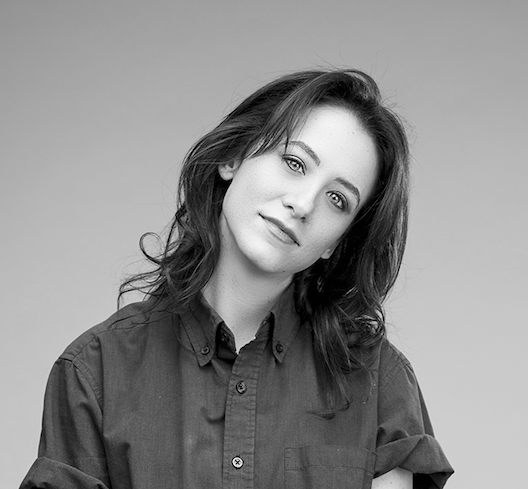
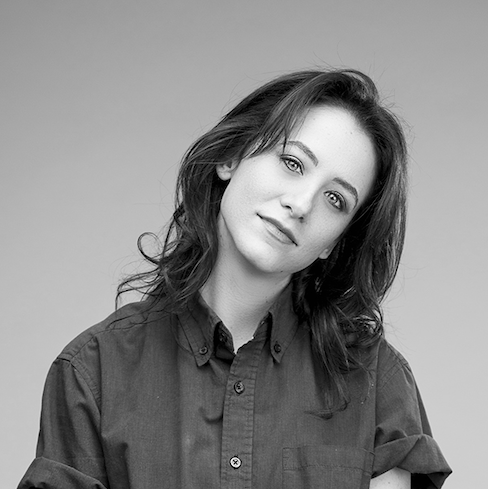
add fade to lazy load

diff --git a/client/src/components/About/index.js b/client/src/components/About/index.js
@@ -1,9 +1,14 @@
 import { LazyLoadImage } from "react-lazy-load-image-component";
-import { Skeleton } from "@mui/material";
+import { animated, useSpring } from "react-spring";
 import "./About.css";
 
 const About = ({ advocateMode }) => {
-  /*      */
+  const fadeIn = useSpring({
+    from: { opacity: 0 },
+    to: { opacity: 1 },
+    config: { duration: 750 },
+  });
+
   return (
     <div
       className="page"
@@ -14,18 +19,15 @@ const About = ({ advocateMode }) => {
       }}
     >
       <div className="about-wrapper" style={{ overflow: "auto" }}>
-        <div className="img-wrapper ">
+        <animated.div style={fadeIn} className="img-wrapper ">
           <LazyLoadImage
-            placeholder={
-              <Skeleton variant="rectangular" width={275} height={275} />
-            }
             effect="blur"
             alt="Portrait of Kat Yeary"
             className="lg-img"
             height="100%"
             src="/assets/13-Kat_Yeary-6BW.png"
           />
-        </div>
+        </animated.div>
         <div className="text-container">
           <div className="about-text">
             <div className="sm-img">

diff --git a/client/src/App.js b/client/src/App.js
@@ -24,11 +24,7 @@ const App = () => {
         <Routes>
           <Route
             path="*"
-            element={
-              <Suspense fallback={<div>...loading</div>}>
-                <Splash darkMode={darkMode} advocateMode={false} />
-              </Suspense>
-            }
+            element={<Splash darkMode={darkMode} advocateMode={false} />}
           />
           <Route
             path="/advocate"
